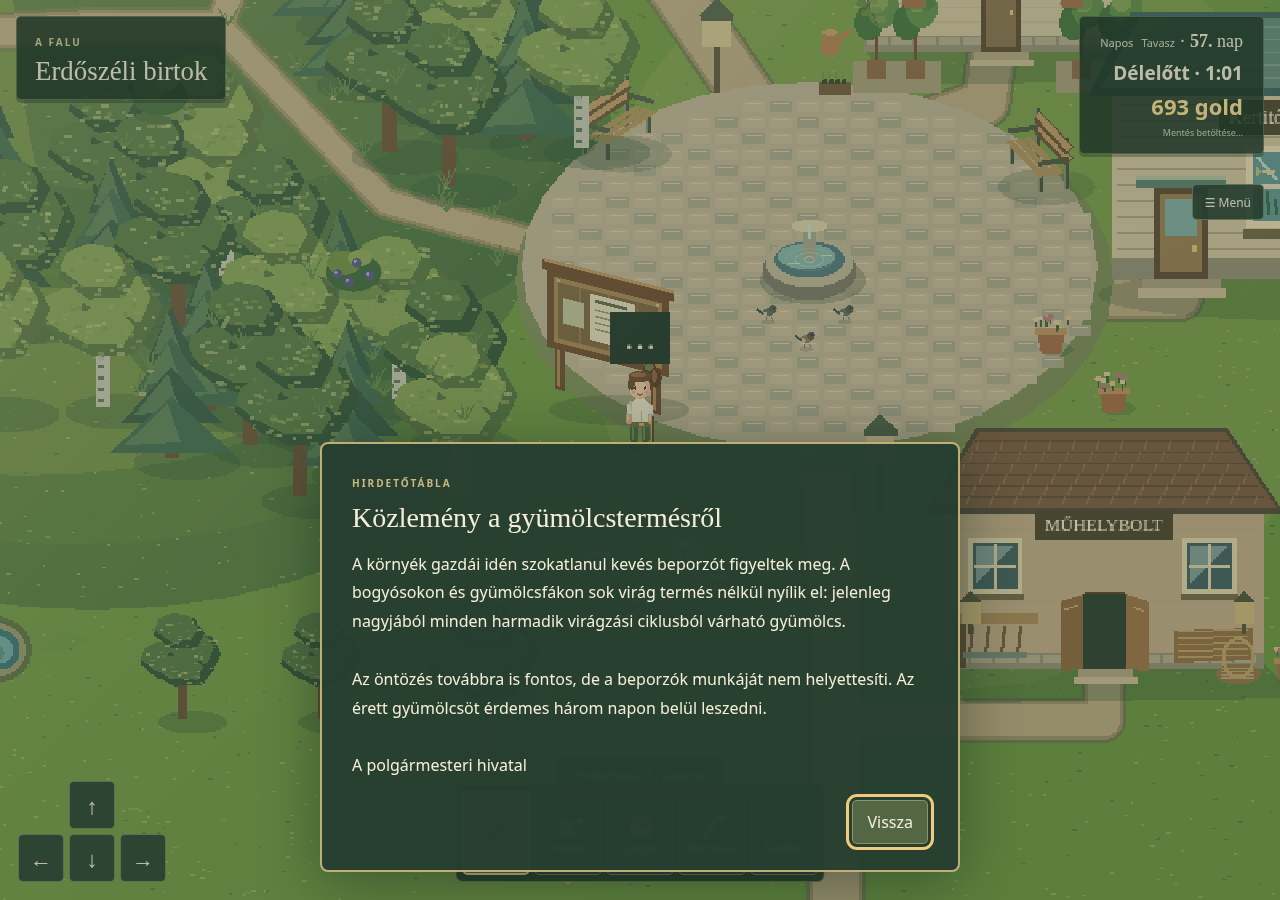
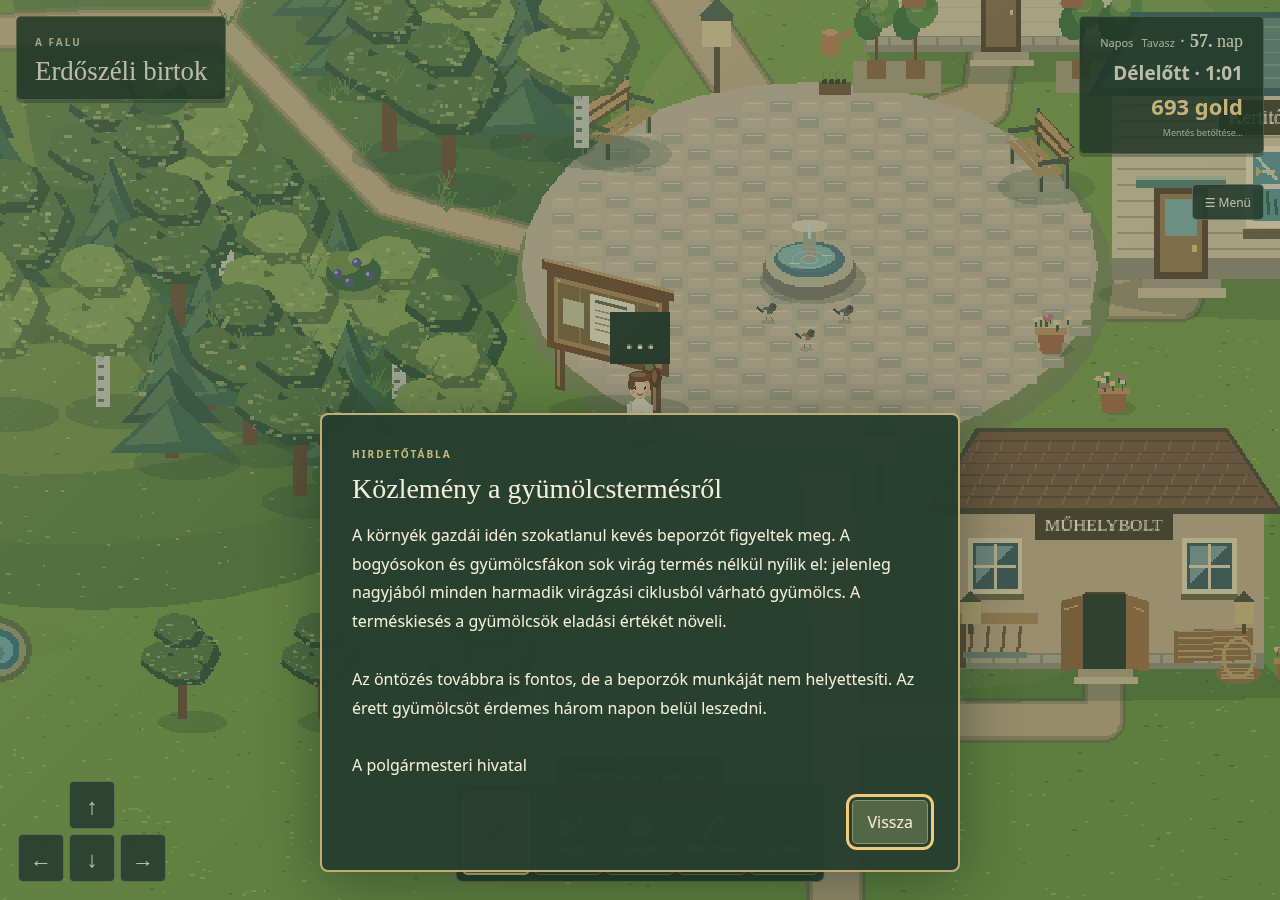
Update berry sale prices and preserve historical settlement receipts

Changed region(s): [[0.25, 0.4356, 0.75, 0.7156]]

diff --git a/src/economy.ts b/src/economy.ts
@@ -1,9 +1,9 @@
 import {emptyExtras,extraValue,validExtras,type ExtraCounts} from './estate';
 import type {Crop,Garden} from './gardening';
-export const salePrices:Record<Crop,number>={radish:15,potato:30,pea:12,strawberry:14,honeyberry:16,blueberry:30,carrot:22,lettuce:12,onion:32};
+export const salePrices:Record<Crop,number>={radish:15,potato:30,pea:12,strawberry:25,honeyberry:24,blueberry:21,carrot:22,lettuce:12,onion:32};
 export const crops:Crop[]=['radish','potato','pea','strawberry','honeyberry','blueberry','carrot','lettuce','onion'];
 export type Quantities=Record<Crop,number>;
-export type Receipt={day:number;items:Quantities;extras?:ExtraCounts;total:number};
+export type Receipt={unitPrices?:Quantities;day:number;items:Quantities;extras?:ExtraCounts;total:number};
 export type Economy={gold:number;shipping:Quantities;lastSale:Receipt|null};
 export const emptyQuantities=():Quantities=>({radish:0,potato:0,pea:0,strawberry:0,honeyberry:0,blueberry:0,carrot:0,lettuce:0,onion:0});
 export const createEconomy=():Economy=>({gold:0,shipping:emptyQuantities(),lastSale:null});
@@ -18,7 +18,7 @@ export function transferProduce(garden:Garden,economy:Economy,crop:Crop,amount:n
 export function settleSales(economy:Economy,day:number,extras:ExtraCounts=emptyExtras()):Economy{
  const total=shippingValue(economy.shipping)+extraValue(extras);
  if(!Number.isSafeInteger(economy.gold+total))throw new Error('A gold mennyisége nem tárolható biztonságosan.');
- return {gold:economy.gold+total,shipping:emptyQuantities(),lastSale:{day,items:{...economy.shipping},...(extraValue(extras)>0?{extras:{...extras}}:{}),total}};
+ return {gold:economy.gold+total,shipping:emptyQuantities(),lastSale:{day,items:{...economy.shipping},...(extraValue(extras)>0?{extras:{...extras}}:{}),...(['strawberry','honeyberry','blueberry'].some(c=>economy.shipping[c as Crop]>0)?{unitPrices:{...salePrices}}:{}),total}};
 }
 export function validEconomy(value:unknown):value is Economy{
  if(!value||typeof value!=='object')return false;
@@ -27,5 +27,17 @@ export function validEconomy(value:unknown):value is Economy{
  if(!Number.isSafeInteger(e.gold)||e.gold<0||!counts(e.shipping))return false;
  if(e.lastSale===null)return true;
  const r=e.lastSale;
- return !!r&&Number.isSafeInteger(r.day)&&r.day>=1&&counts(r.items)&&Number.isSafeInteger(r.total)&&r.total>=0&&(r.extras===undefined||validExtras(r.extras))&&r.total===shippingValue(r.items)+(r.extras?extraValue(r.extras):0);
+ return !!r&&Number.isSafeInteger(r.day)&&r.day>=1&&counts(r.items)&&Number.isSafeInteger(r.total)&&r.total>=0&&(r.extras===undefined||validExtras(r.extras))&&validReceiptTotal(r);
+}
+
+// Historical receipts retain their original prices and never change the wallet.
+const previousSalePrices:Quantities={...salePrices,strawberry:14,honeyberry:16,blueberry:30};
+export function receiptPrices(r:Receipt):Quantities{
+ if(r.unitPrices)return r.unitPrices;
+ const oldTotal=crops.reduce((sum,c)=>sum+r.items[c]*previousSalePrices[c],0)+(r.extras?extraValue(r.extras):0);
+ return r.total===oldTotal?previousSalePrices:salePrices;
+}
+export function validReceiptTotal(r:Receipt){
+ if(r.unitPrices&&![salePrices,previousSalePrices].some(p=>crops.every(c=>r.unitPrices![c]===p[c])))return false;
+ return r.total===crops.reduce((sum,c)=>sum+r.items[c]*receiptPrices(r)[c],0)+(r.extras?extraValue(r.extras):0);
 }

diff --git a/src/morning-report.ts b/src/morning-report.ts
@@ -1,11 +1,11 @@
 import {extras,extraValue,extraPrices,validExtras,type ExtraCounts} from './estate';
-import {crops,salePrices,shippingValue,type Quantities,type Receipt} from './economy';
-export type MorningSale={day:number;items:Quantities;extras?:ExtraCounts;total:number;beforeGold:number;afterGold:number};
+import {crops,receiptPrices,validReceiptTotal,type Quantities,type Receipt} from './economy';
+export type MorningSale={unitPrices?:Quantities;day:number;items:Quantities;extras?:ExtraCounts;total:number;beforeGold:number;afterGold:number};
 export function morningSale(receipt:Receipt,beforeGold:number):MorningSale{return structuredClone({...receipt,beforeGold,afterGold:beforeGold+receipt.total});}
 export function validMorningSale(value:unknown,day:number):value is MorningSale{
  if(!value||typeof value!=='object')return false;const s=value as MorningSale;
- return Number.isSafeInteger(s.day)&&s.day===day-1&&!!s.items&&crops.every(c=>Number.isSafeInteger(s.items[c])&&s.items[c]>=0&&s.items[c]<=999999)&&(s.extras===undefined||validExtras(s.extras))&&s.total===shippingValue(s.items)+(s.extras?extraValue(s.extras):0)&&Number.isSafeInteger(s.total)&&Number.isSafeInteger(s.beforeGold)&&s.beforeGold>=0&&Number.isSafeInteger(s.afterGold)&&s.afterGold===s.beforeGold+s.total;
+ return Number.isSafeInteger(s.day)&&s.day===day-1&&!!s.items&&crops.every(c=>Number.isSafeInteger(s.items[c])&&s.items[c]>=0&&s.items[c]<=999999)&&(s.extras===undefined||validExtras(s.extras))&&validReceiptTotal(s)&&Number.isSafeInteger(s.total)&&Number.isSafeInteger(s.beforeGold)&&s.beforeGold>=0&&Number.isSafeInteger(s.afterGold)&&s.afterGold===s.beforeGold+s.total;
 }
-export function saleRows(sale:MorningSale){return [...crops.filter(c=>sale.items[c]>0).map(crop=>({crop,quantity:sale.items[crop],value:sale.items[crop]*salePrices[crop]})),...extras.filter(k=>(sale.extras?.[k]??0)>0).map(crop=>({crop,quantity:sale.extras![crop],value:sale.extras![crop]*extraPrices[crop]}))];}
+export function saleRows(sale:MorningSale){return [...crops.filter(c=>sale.items[c]>0).map(crop=>({crop,quantity:sale.items[crop],value:sale.items[crop]*receiptPrices(sale)[crop]})),...extras.filter(k=>(sale.extras?.[k]??0)>0).map(crop=>({crop,quantity:sale.extras![crop],value:sale.extras![crop]*extraPrices[crop]}))];}
 export const incomeProgress=(elapsed:number,reduced=false)=>reduced?(elapsed>=650?1:0):Math.min(1,Math.max(0,(elapsed-650)/1150));
 export const displayedBalance=(sale:MorningSale,elapsed:number,reduced=false)=>sale.beforeGold+Math.round(sale.total*(1-(1-incomeProgress(elapsed,reduced))**3));

diff --git a/src/economy.test.ts b/src/economy.test.ts
@@ -2,7 +2,7 @@ import {describe,it,expect} from 'vitest';
 import {createGarden} from './gardening';
 import {createEconomy,salePrices,shippingValue,transferProduce,settleSales,validEconomy} from './economy';
 describe('shipping and gold',()=>{
- it('uses agreed unit prices',()=>expect(salePrices).toEqual({radish:15,potato:30,pea:12,strawberry:14,honeyberry:16,blueberry:30,carrot:22,lettuce:12,onion:32}));
+ it('uses agreed unit prices',()=>expect(salePrices).toEqual({radish:15,potato:30,pea:12,strawberry:25,honeyberry:24,blueberry:21,carrot:22,lettuce:12,onion:32}));
  it('moves produce into the crate without paying before morning',()=>{
   const garden=createGarden(),economy=createEconomy();garden.produce.radish=4;
   expect(transferProduce(garden,economy,'radish',3,'deposit')).toBe(true);expect(garden.produce.radish).toBe(1);expect(economy.shipping.radish).toBe(3);expect(economy.gold).toBe(0);expect(shippingValue(economy.shipping)).toBe(45);
@@ -26,5 +26,10 @@ describe('shipping and gold',()=>{
  it('validates balances, shipping and receipt totals',()=>{const e=createEconomy();expect(validEconomy(e)).toBe(true);e.gold=-1;expect(validEconomy(e)).toBe(false);const next=settleSales(createEconomy(),1);next.lastSale!.total=1;expect(validEconomy(next)).toBe(false);});
 });
 describe('spring fruit sales',()=>{
- it('sells the three similar-value berries with vegetables in one morning',()=>{const garden=createGarden(),economy=createEconomy();for(const crop of ['strawberry','honeyberry','blueberry'] as const){garden.produce[crop]=1;expect(transferProduce(garden,economy,crop,1,'deposit')).toBe(true);}expect(settleSales(economy,1).gold).toBe(60);});
+ it('sells the three similar-value berries with vegetables in one morning',()=>{const garden=createGarden(),economy=createEconomy();for(const crop of ['strawberry','honeyberry','blueberry'] as const){garden.produce[crop]=1;expect(transferProduce(garden,economy,crop,1,'deposit')).toBe(true);}expect(settleSales(economy,1).gold).toBe(70);});
+});
+
+it('keeps legacy berry receipts valid while settling new sales at the new prices',()=>{
+ const e=createEconomy();e.shipping.strawberry=1;e.shipping.honeyberry=1;e.shipping.blueberry=1;const n=settleSales(e,1);expect(n.lastSale?.total).toBe(70);expect(validEconomy(n)).toBe(true);
+ const old=structuredClone(n);old.lastSale!.total=60;delete old.lastSale!.unitPrices;expect(validEconomy(old)).toBe(true);expect(old.gold).toBe(n.gold);old.lastSale!.total=61;expect(validEconomy(old)).toBe(false);
 });

diff --git a/src/village-notice.ts b/src/village-notice.ts
@@ -1,7 +1,7 @@
 import type Phaser from 'phaser';
 export const villageNotice={x:350,y:1165,w:76};
 export const pollinatorNoticeTitle='Közlemény a gyümölcstermésről';
-export const pollinatorNoticeText='A környék gazdái idén szokatlanul kevés beporzót figyeltek meg. A bogyósokon és gyümölcsfákon sok virág termés nélkül nyílik el: jelenleg nagyjából minden harmadik virágzási ciklusból várható gyümölcs.\n\nAz öntözés továbbra is fontos, de a beporzók munkáját nem helyettesíti. Az érett gyümölcsöt érdemes három napon belül leszedni.\n\nA polgármesteri hivatal';
+export const pollinatorNoticeText='A környék gazdái idén szokatlanul kevés beporzót figyeltek meg. A bogyósokon és gyümölcsfákon sok virág termés nélkül nyílik el: jelenleg nagyjából minden harmadik virágzási ciklusból várható gyümölcs. A terméskiesés a gyümölcsök eladási értékét növeli.\n\nAz öntözés továbbra is fontos, de a beporzók munkáját nem helyettesíti. Az érett gyümölcsöt érdemes három napon belül leszedni.\n\nA polgármesteri hivatal';
 export function noticeBoardBlocked(x:number,y:number){const dx=x-villageNotice.x,dy=y-villageNotice.y;return Math.abs(dx)<38&&Math.abs(dy-dx*.25)<9;}
 export function drawVillageNotice(scene:Phaser.Scene){
  const g=scene.add.graphics().setDepth(3),n=villageNotice;

diff --git a/src/morning-report.test.ts b/src/morning-report.test.ts
@@ -30,3 +30,8 @@ describe('Visual morning settlement',()=>{
   const data=snapshot({x:250,y:242},createClock(3),createGarden());const legacy={...data,version:13,travel:{picked:{},morning:'Az éjjel kiraboltak. Elveszítettem: 1 db áfonya.'}};const decoded=decodeSnapshot(legacy)!;expect(decoded.travel.morning).toBe(legacy.travel.morning);expect(decoded.travel.sale).toBeNull();expect(decoded.economy.gold).toBe(data.economy.gold);
  });
 });
+
+it('renders historical berry line values without recalculating the saved balance',()=>{
+ const old=morningSale({day:2,total:60,items:{...emptyQuantities(),strawberry:1,honeyberry:1,blueberry:1}},100);expect(validMorningSale(old,3)).toBe(true);expect(saleRows(old).map(r=>r.value)).toEqual([14,16,30]);expect(old.afterGold).toBe(160);
+ const e=createEconomy();e.shipping={...old.items};const current=morningSale(settleSales(e,2).lastSale!,100);expect(validMorningSale(current,3)).toBe(true);expect(saleRows(current).map(r=>r.value)).toEqual([25,24,21]);expect(current.afterGold).toBe(170);
+});

diff --git a/docs/jatekterv.md b/docs/jatekterv.md
@@ -792,3 +792,9 @@ Amikor Sam először közel sétál valóban sikertelen terméskötődést mutat
 - A falutér délnyugati peremére álló, kétoszlopos, tetőléces hirdetőtábla került, a tér ívéhez illeszkedő enyhe perspektívával. E-vel és kattintással olvasható. A polgármesteri hivatal elfogadott „Közlemény a gyümölcstermésről” szövege innen bármikor újraolvasható; postaládás másolat nem készül.
 - Az üres felkapált föld két teljes, vetés nélkül eltelt nap után visszaáll: hétfőn kapálva kedden és szerdán megmarad, csütörtök reggelre eltűnik. Öntözés és eső nem indítja újra ezt az időt; ültetés megszünteti az üresföld-számlálást. Egyszer termő növény leszedése után az üresen maradt helyre újra érvényes a szabály. A vadvirággal elfoglalt földet és a beültetett helyeket nem érinti. Régi mentésben korábban üresen álló földek a frissítéstől számítják ezt az időt.
 - A palánták árai egyelőre változatlanok; az esetleges árcsökkentés még egyeztetés alatt áll.
+
+
+### Gyümölcsárak és falusi közlemény — 2026. október 27.
+- A játék kezdetétől az eper eladási ára 25 gold/db, a mézbogyóé 24 gold/db, az áfonyáé 21 gold/db. A vételárak változatlanok (20 / 25 / 45 gold). A meglévő mentésekben a még el nem számolt termést is az új árakon értékesítjük; a korábbi bevételeket nem számoljuk újra.
+- A hirdetőtábla közleményében a „jelenleg nagyjából minden harmadik virágzási ciklusból várható gyümölcs.” mondat után ez szerepel: „A terméskiesés a gyümölcsök eladási értékét növeli.”
+- Egy sikeresen termő eper-, mézbogyó- vagy áfonyanövény szüretenként 1 gyümölcsöt ad; a mennyiség változatlan.
